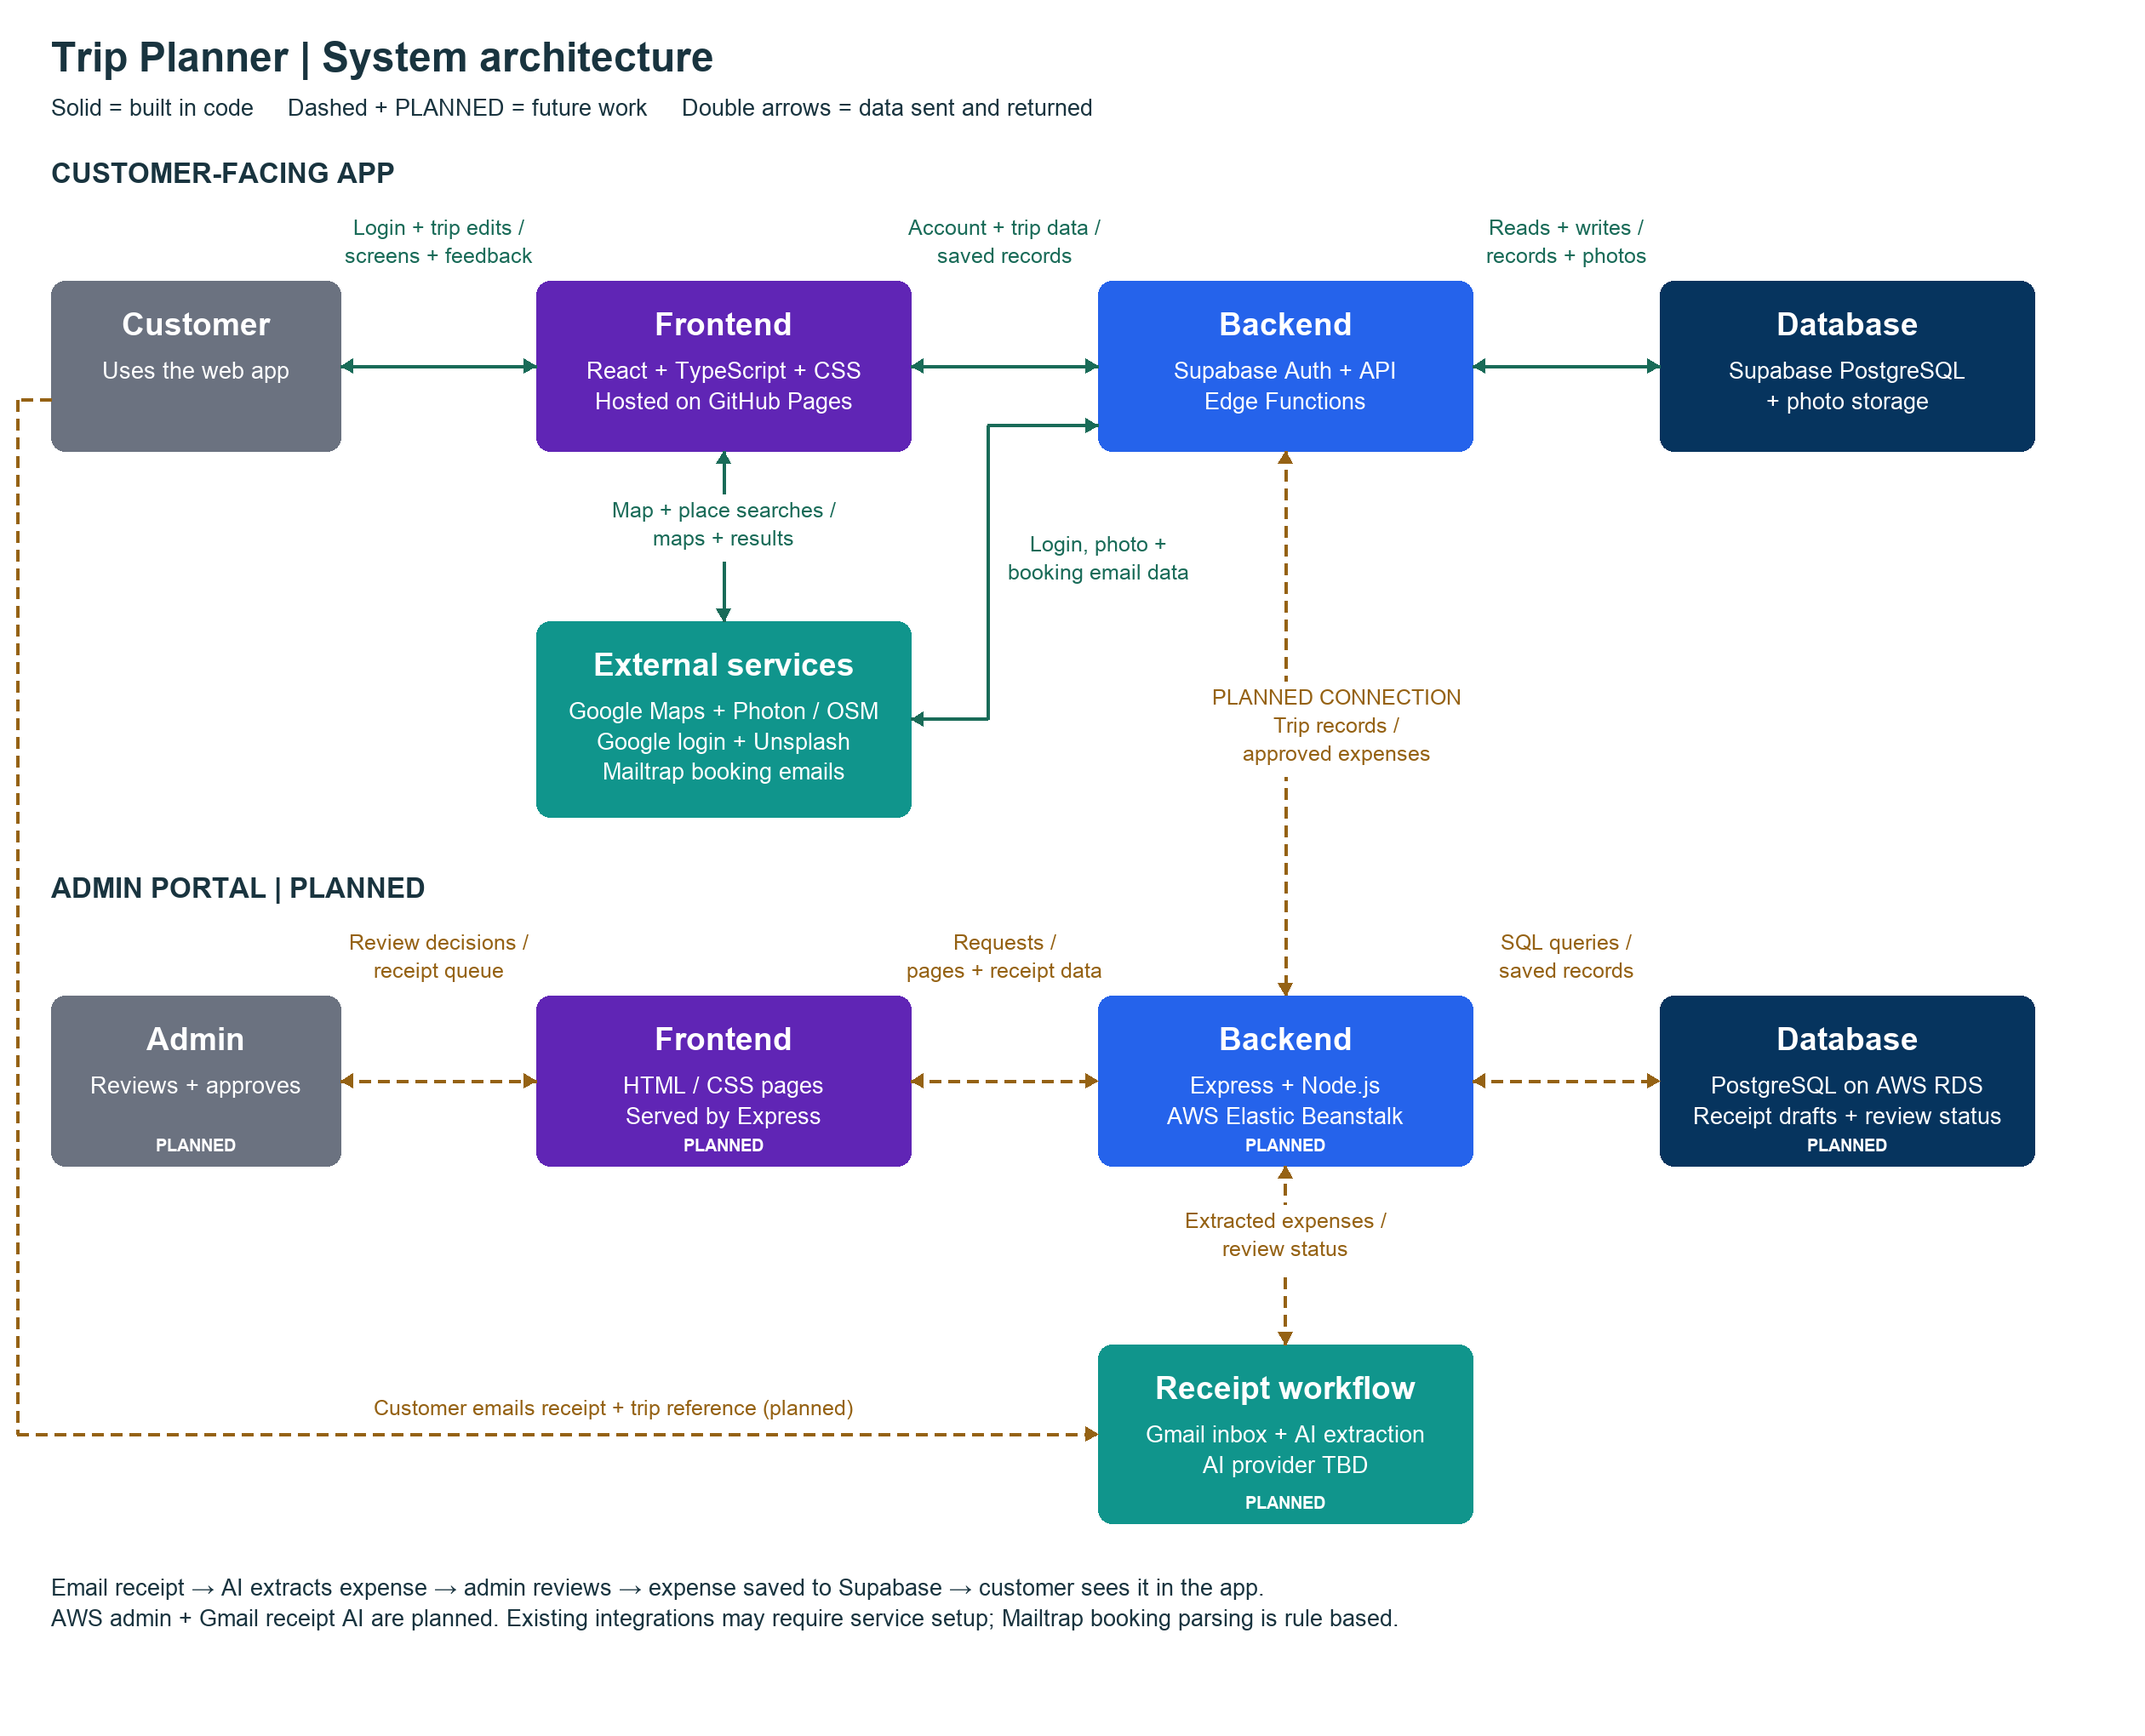
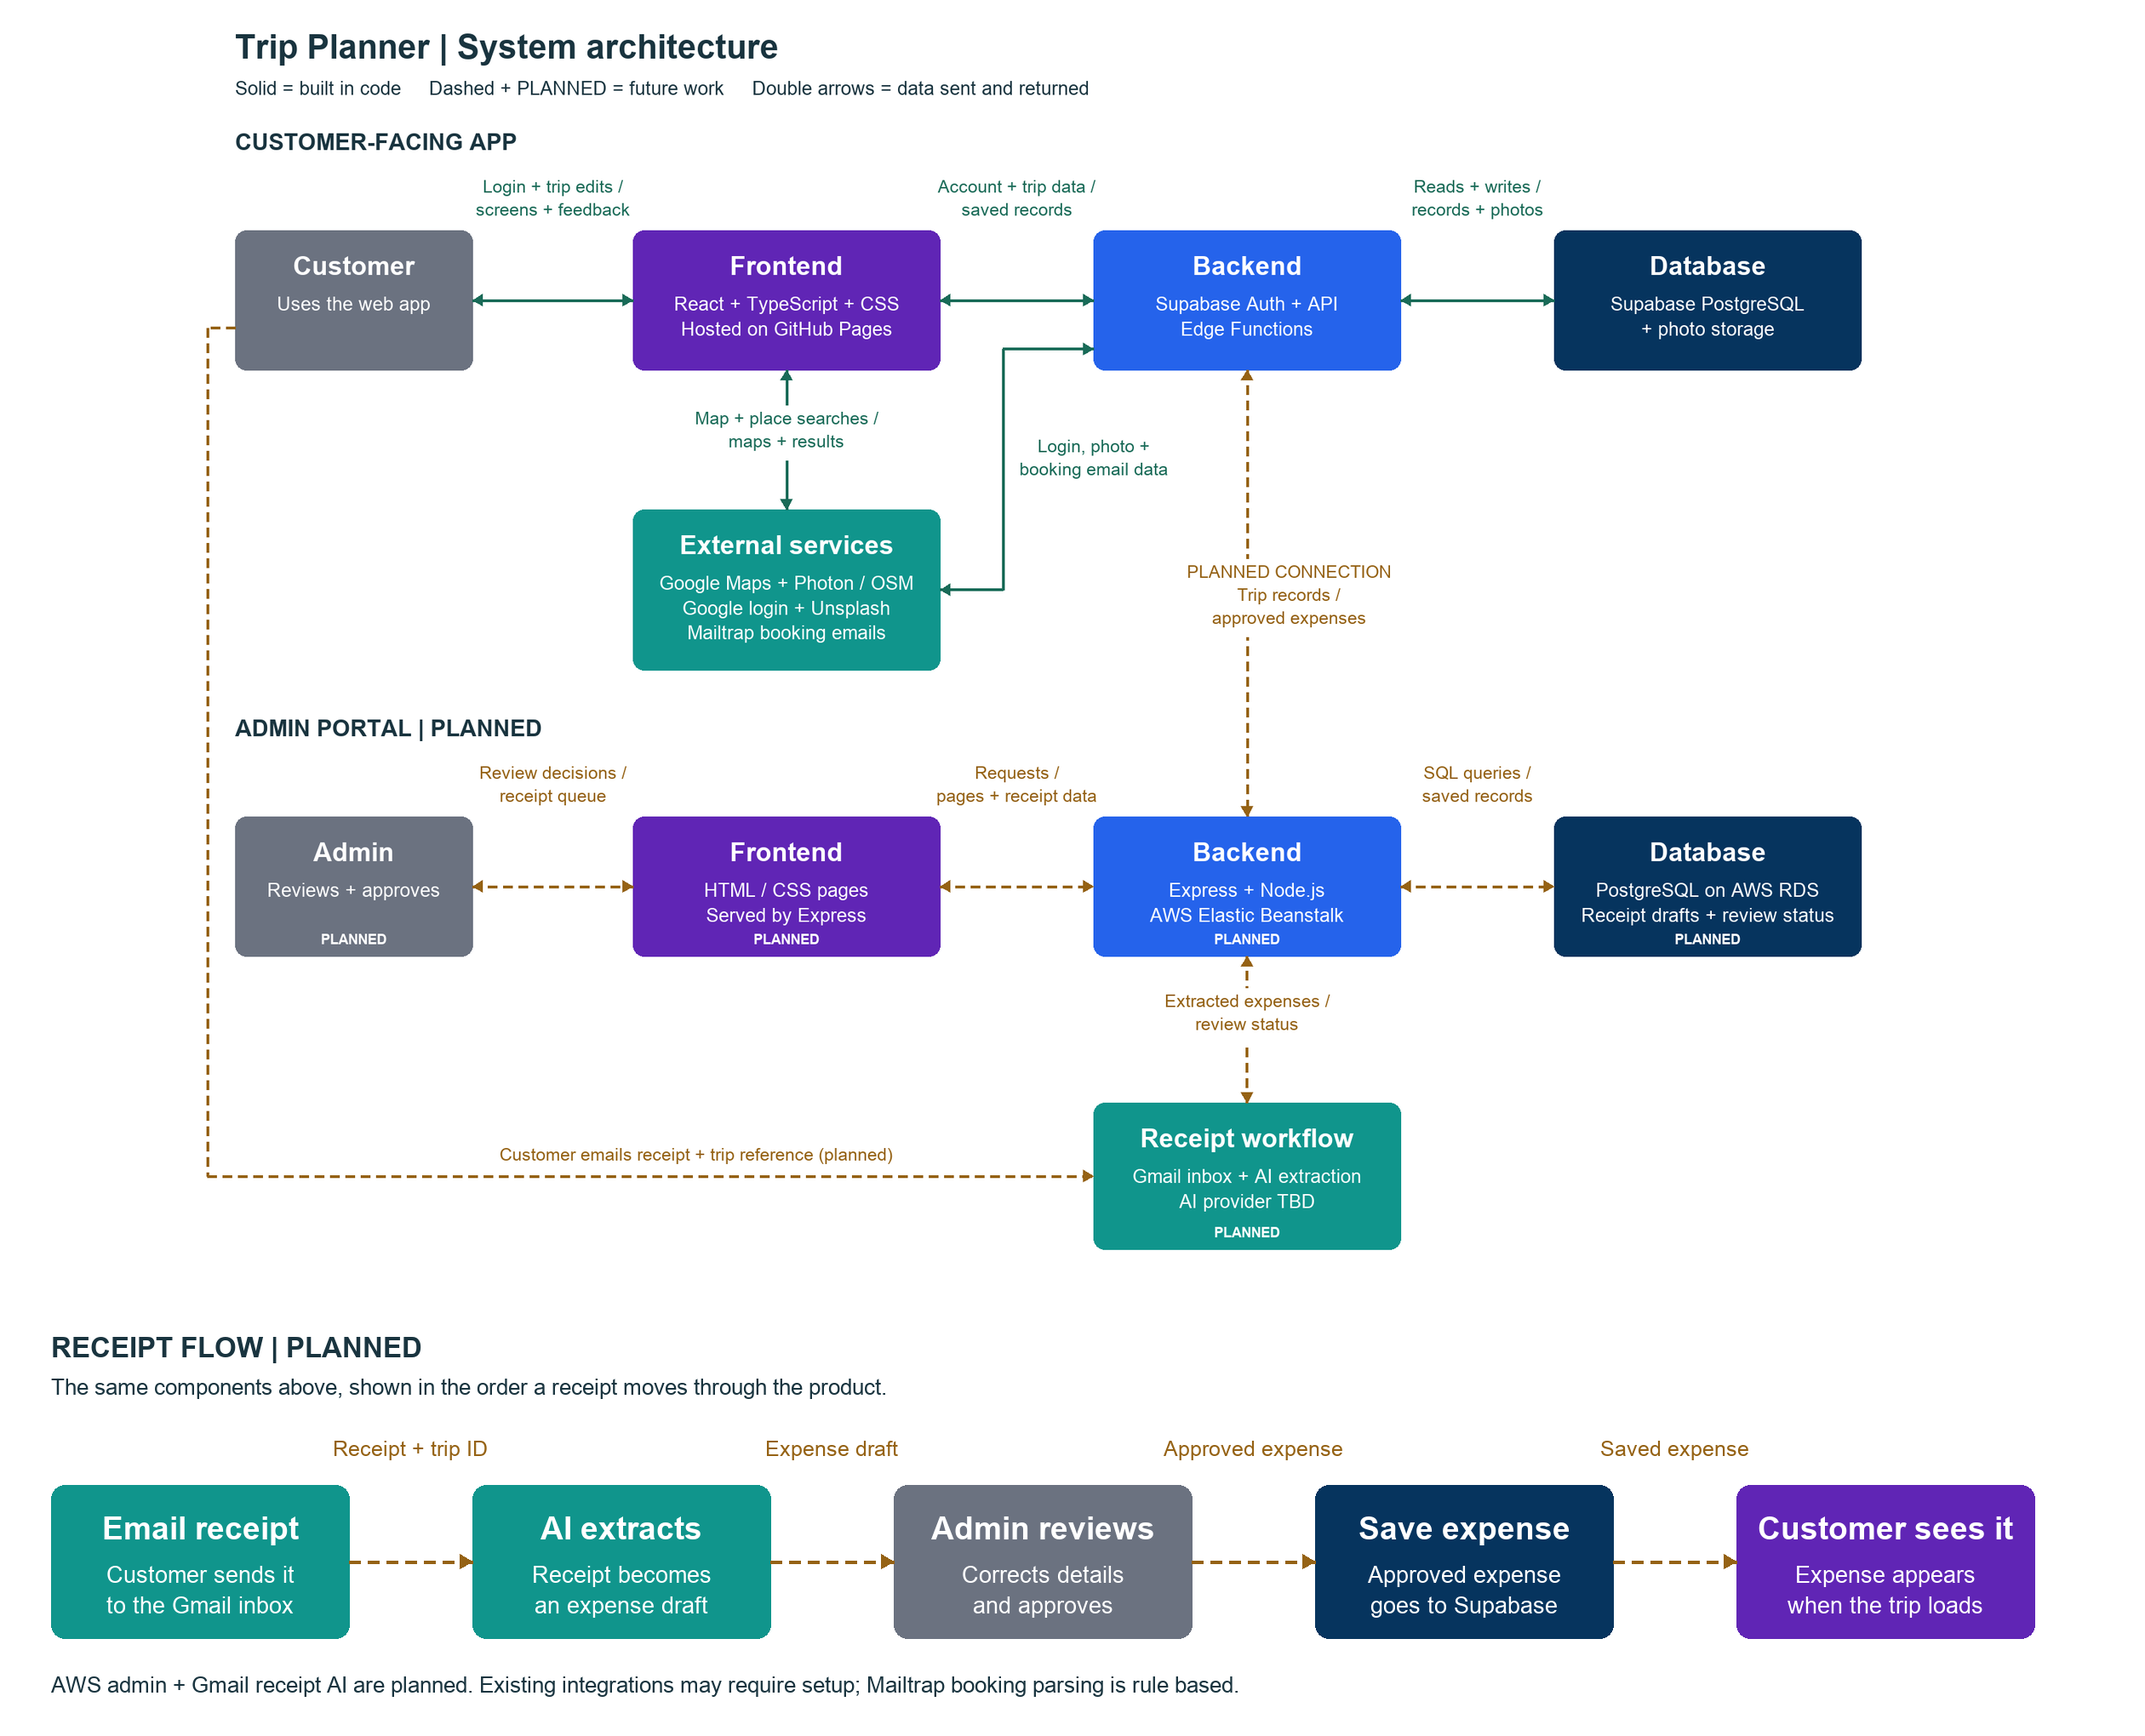
Show receipt workflow as connected steps in architecture diagram

diff --git a/README.md b/README.md
@@ -21,7 +21,7 @@ Planning a group trip often means keeping track of messages, calendars, bookings
 
 ## System Architecture
 
-![Trip Planner system architecture: customer React app on GitHub Pages uses Supabase and map services; planned AWS admin portal connects approved expenses to Supabase; travelers email receipts to a planned Gmail and AI extraction workflow. All arrows label the data exchanged.](assignment/system-architecture.png)
+![Trip Planner system architecture and planned receipt flow: customer emails a receipt, AI extracts an expense, admin reviews it, Supabase saves it, and the customer sees it in the app. Customer and AWS admin components, external services, and data exchanged are labeled.](assignment/system-architecture.png)
 
 [Open full-size diagram](assignment/system-architecture.png) · [Scalable SVG copy](assignment/system-architecture.svg) · [FigJam board — Diagram frame](https://www.figma.com/board/I4HBVhgTCyki0lvjDZyMZ8/Untitled?node-id=44-271)
 

diff --git a/AGENTS.md b/AGENTS.md
@@ -9,6 +9,7 @@ User approved direct commits to main and public GitHub Pages hosting on October 
 ## Corrections & Lessons Learned
 
 - Receipt automation clarification (November 2, 2026): travelers must email receipts to a dedicated Gmail inbox. Model the planned workflow as emailed receipt ingestion, not scanning a traveler's connected personal inbox. The admin portal and automation remain planned.
+- Architecture diagram clarification (November 2, 2026): show the receipt sequence as connected visual steps inside the diagram: email receipt, AI extraction, admin review, Supabase save, and customer display. A footer sentence alone is not enough.
 
 - A populated fictional trip must coexist with a genuinely empty new-trip flow for usability testing.
 - Calendar maps to Page 11 with date navigation; Page 10 is restricted to active dates.
